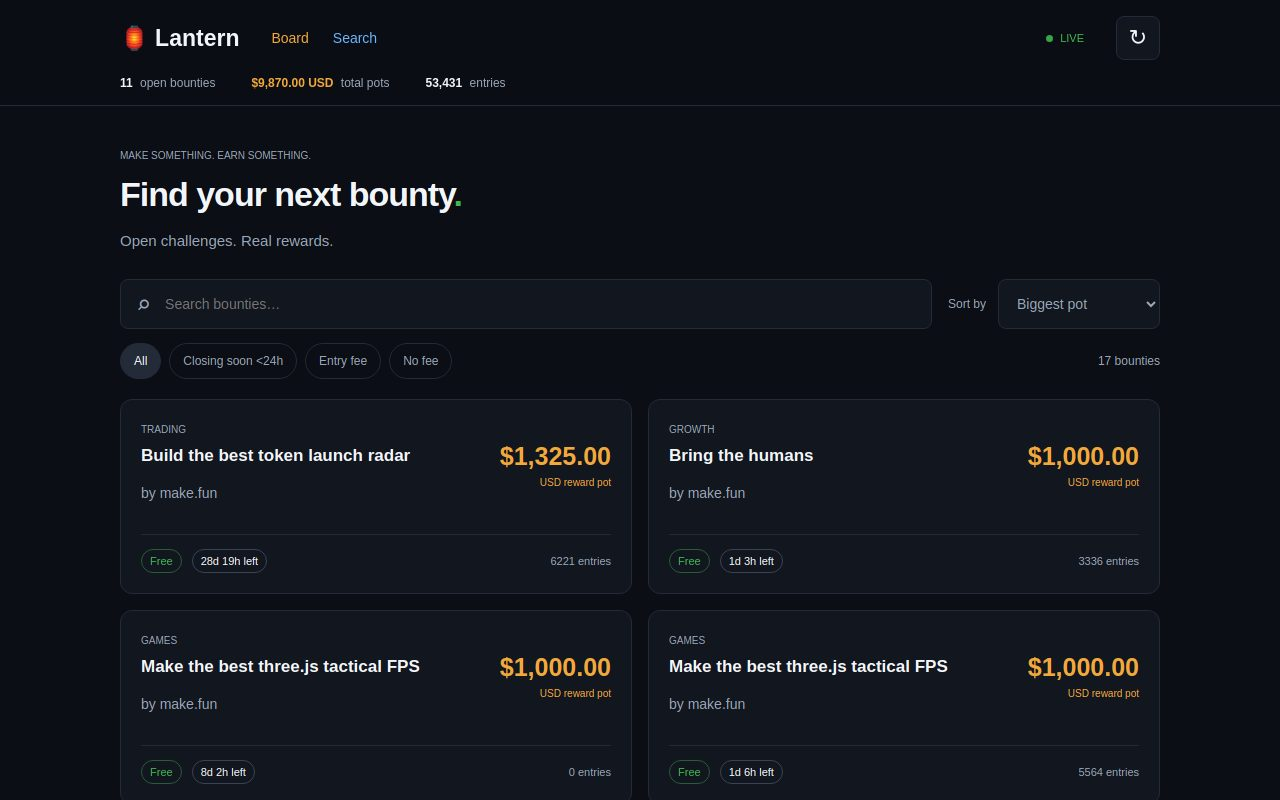
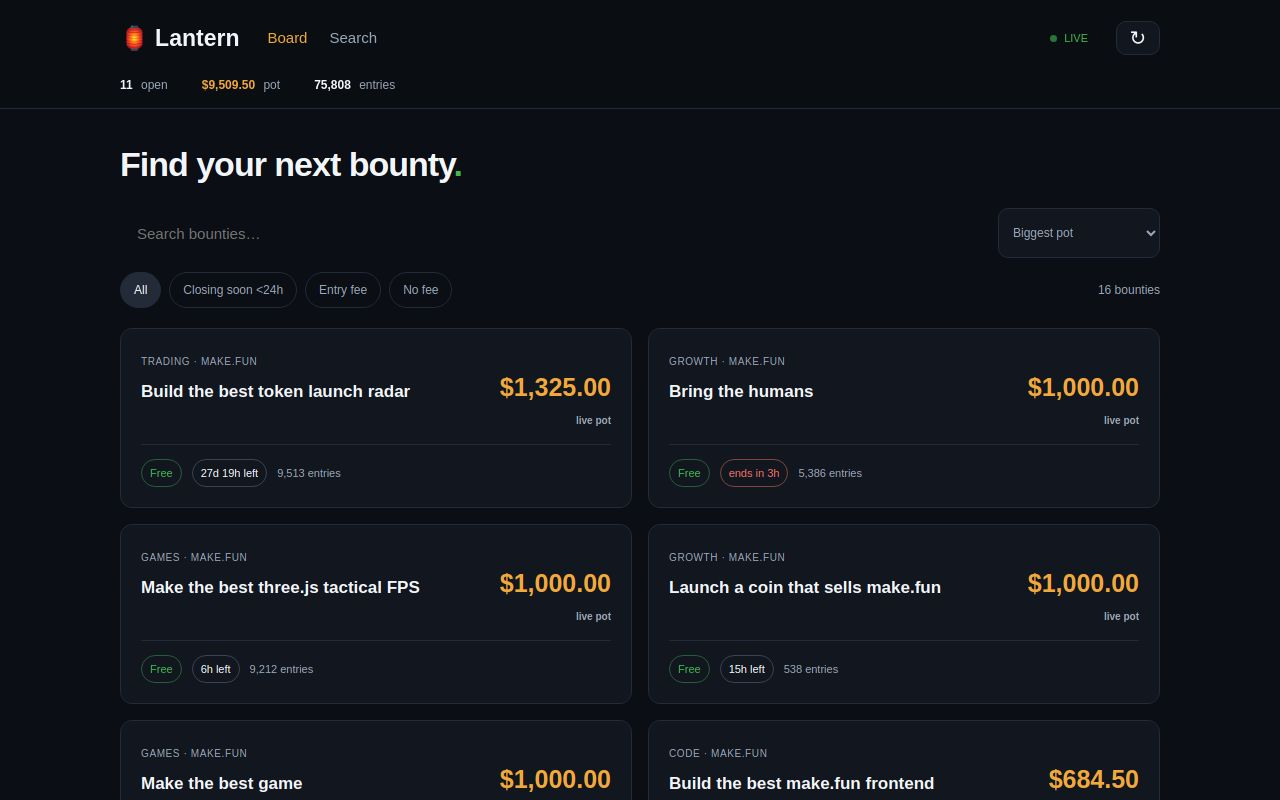
Round 4: rewrite the entrypoint main.ts in the author's own words and refresh the Lantern frontend
- main.ts: reauthored (Node 22 stdlib only; copies app/ + screenshots/ to the
  output dir and writes dossier.json via the vendored buildDossier).
- app/: board, bounty page, leaderboard and profile rewritten from the design;
  leaderboard phase object now rendered as its label + status.
- screenshots/: 3 fresh 1280x800 live renders (board, bounty, leaderboard).
- first load 6 files, 8184 bytes gzip-9.

diff --git a/app/main.js b/app/main.js
@@ -2,14 +2,78 @@ import {get} from './api.js';
 import {money} from './format.js';
 import {escape as E,cards,pager,rankTable,ranks,bountyView,profileView} from './views.js';
 const main=document.querySelector('main'),stats=document.querySelector('#stats');
-function patch(a,b){if(a.isEqualNode(b))return;if(a.nodeType===3){a.textContent=b.textContent;return}if(a.nodeName!==b.nodeName){a.replaceWith(b);return}for(const v of b.attributes)a.setAttribute(v.name,v.value);for(let i=0;i<Math.max(a.childNodes.length,b.childNodes.length);i++){const x=a.childNodes[i],y=b.childNodes[i];if(!y){x.remove();i--}else if(!x)a.append(y.cloneNode(true));else patch(x,y)}}
-let sequence=0,refreshView=null,boardState={q:'',sort:'pot',filter:'all',page:0};
-function update(id,html){const node=document.getElementById(id);if(node&&node.innerHTML!==html)node.innerHTML=html}
-function bindPager(node,callback){node.querySelectorAll('[data-page]').forEach(b=>b.addEventListener('click',()=>callback(+b.dataset.page)))}
-function renderBoard(data,initial){const all=data.items||[],s=boardState;if(initial){main.innerHTML='<section class="hero"><span class="eyebrow">Make something. Earn something.</span><h1>Find your next bounty<span class="green">.</span></h1><p class="summary">Open challenges. Real rewards.</p></section><section aria-label="Bounty board"><div class="controls"><label class="search"><span>⌕</span><input id="query" type="search" aria-label="Search bounties" placeholder="Search bounties…"></label><label class="sort"><span>Sort by</span><select id="sort"><option value="pot">Biggest pot</option><option value="closing">Closing soon</option><option value="entries">Most entries</option></select></label></div><div class="filter-row"><div class="filters"><button data-filter="all">All</button><button data-filter="soon">Closing soon &lt;24h</button><button data-filter="fee">Entry fee</button><button data-filter="free">No fee</button></div><span id="count" class="muted" aria-live="polite"></span></div><div id="cards" class="grid"></div><div id="pages"></div></section>';const q=document.querySelector('#query');q.value=s.q;document.querySelector('#sort').value=s.sort;let timer;q.addEventListener('input',()=>{clearTimeout(timer);timer=setTimeout(()=>{s.q=q.value;s.page=0;paint()},150)});document.querySelector('#sort').addEventListener('change',ev=>{s.sort=ev.target.value;s.page=0;paint()});main.querySelectorAll('[data-filter]').forEach(b=>b.addEventListener('click',()=>{s.filter=b.dataset.filter;s.page=0;paint()}))}
- function paint(){const now=Date.now(),list=all.filter(b=>String(b.title).toLowerCase().includes(s.q.toLowerCase())).filter(b=>s.filter==='all'||(s.filter==='fee'?+b.entryFeeUsd>0:s.filter==='free'?!(+b.entryFeeUsd):new Date(b.deadline)>now&&new Date(b.deadline)-now<86400000));list.sort((a,b)=>s.sort==='pot'?+b.potUsd-+a.potUsd:s.sort==='entries'?b.submissionCount-a.submissionCount:new Date(a.deadline)-new Date(b.deadline));s.page=Math.min(s.page,Math.max(0,Math.ceil(list.length/12)-1));update('cards',list.length?cards(list.slice(s.page*12,s.page*12+12)):'<div class="empty"><h2>No bounties match</h2><button id="clear">Clear search</button></div>');document.querySelector('#clear')?.addEventListener('click',()=>{s.q='';s.filter='all';document.querySelector('#query').value='';paint()});document.querySelector('#count').textContent=list.length+' bounties';main.querySelectorAll('[data-filter]').forEach(b=>b.setAttribute('aria-pressed',String(b.dataset.filter===s.filter)));update('pages',pager(s.page,list.length,12));bindPager(document.querySelector('#pages'),p=>{s.page=p;paint()});stats.innerHTML=`<span><b>${all.filter(b=>new Date(b.deadline)>now).length}</b> open bounties</span><span><b class="money">${money(all.reduce((n,b)=>n+(+b.potUsd||0),0))} USD</b> total pots</span><span><b>${all.reduce((n,b)=>n+(+b.submissionCount||0),0).toLocaleString()}</b> entries</span>`}
- paint();refreshView=next=>renderBoard(next,false);
+let token=0,repaint=null;
+const board={q:'',sort:'pot',filter:'all',page:0};
+const put=(id,html)=>{const n=document.getElementById(id);if(n&&n.innerHTML!==html)n.innerHTML=html};
+const wirePager=(node,go)=>node.querySelectorAll('[data-page]').forEach(b=>b.addEventListener('click',()=>go(+b.dataset.page)));
+function merge(dst,src){if(dst.isEqualNode(src))return;if(dst.nodeType===3)return void(dst.textContent=src.textContent);if(dst.nodeName!==src.nodeName)return void dst.replaceWith(src);for(const a of src.attributes)dst.setAttribute(a.name,a.value);const n=Math.max(dst.childNodes.length,src.childNodes.length);for(let i=0;i<n;i++){const x=dst.childNodes[i],y=src.childNodes[i];if(!y){x.remove();i--}else if(!x)dst.append(y.cloneNode(true));else merge(x,y)}}
+const SHELL='<section class="hero"><h1>Find your next bounty<span class="green">.</span></h1></section><section><div class="controls"><label class="search"><input id="query" aria-label="Search bounties" placeholder="Search bounties…"></label><label class="sort"><select id="sort"><option value="pot">Biggest pot</option><option value="closing">Closing soon</option><option value="entries">Most entries</option></select></label></div><div class="filter-row"><div class="filters"><button data-filter="all">All</button><button data-filter="soon">Closing soon &lt;24h</button><button data-filter="fee">Entry fee</button><button data-filter="free">No fee</button></div><span id="count" class="muted" aria-live="polite"></span></div><div id="cards" class="grid"></div><div id="pages"></div></section>';
+function renderBoard(data,first){
+ const items=data.items||[];
+ if(first){
+  main.innerHTML=SHELL;
+  const q=document.querySelector('#query');q.value=board.q;document.querySelector('#sort').value=board.sort;
+  let wait;
+  q.addEventListener('input',()=>{clearTimeout(wait);wait=setTimeout(()=>{board.q=q.value;board.page=0;paint()},150)});
+  document.querySelector('#sort').addEventListener('change',e=>{board.sort=e.target.value;board.page=0;paint()});
+  main.querySelectorAll('[data-filter]').forEach(b=>b.addEventListener('click',()=>{board.filter=b.dataset.filter;board.page=0;paint()}));
+ }
+ function paint(){
+  const now=Date.now(),needle=board.q.toLowerCase();
+  const list=items.filter(b=>String(b.title).toLowerCase().includes(needle)).filter(b=>{
+   if(board.filter==='all')return true;
+   if(board.filter==='fee')return Number(b.entryFeeUsd)>0;
+   if(board.filter==='free')return !Number(b.entryFeeUsd);
+   const ms=new Date(b.deadline)-now;return ms>0&&ms<86400000;
+  });
+  list.sort((a,b)=>board.sort==='pot'?Number(b.potUsd)-Number(a.potUsd):board.sort==='entries'?b.submissionCount-a.submissionCount:new Date(a.deadline)-new Date(b.deadline));
+  board.page=Math.min(board.page,Math.max(0,Math.ceil(list.length/12)-1));
+  put('cards',list.length?cards(list.slice(board.page*12,board.page*12+12)):'<div class="empty"><h2>No bounties match</h2><button id="clear">Clear search</button></div>');
+  document.querySelector('#clear')?.addEventListener('click',()=>{board.q='';board.filter='all';document.querySelector('#query').value='';paint()});
+  document.querySelector('#count').textContent=list.length+(list.length===1?' bounty':' bounties');
+  main.querySelectorAll('[data-filter]').forEach(b=>b.setAttribute('aria-pressed',String(b.dataset.filter===board.filter)));
+  put('pages',pager(board.page,list.length,12));
+  wirePager(document.querySelector('#pages'),n=>{board.page=n;paint()});
+  stats.innerHTML=`<span><b>${items.filter(b=>new Date(b.deadline)>now).length}</b> open</span><span><b class="money">${money(items.reduce((n,b)=>n+Number(b.potUsd||0),0))}</b> pot</span><span><b>${items.reduce((n,b)=>n+Number(b.submissionCount||0),0).toLocaleString()}</b> entries</span>`;
+ }
+ paint();
+ repaint=next=>renderBoard(next,false);
 }
-function renderRanks(data,initial){let page=0;const entries=data.entries||[],title=data.competition?.title||'Leaderboard';if(initial)main.innerHTML=`<a class="back" href="#/bounty/${E(data.competition?.slug)}">← Bounty overview</a><section class="hero"><span class="eyebrow">The leaderboard</span><h1>${E(title)}</h1><p class="summary">${E(data.phase?.title||'Rankings')} · ${entries.length.toLocaleString()} entries</p></section><section class="panel" id="ranking"></section><div id="pages"></div>`;function paint(){update('ranking',rankTable(entries.slice(page*25,page*25+25),data.rank_key));update('pages',pager(page,entries.length,25));bindPager(document.querySelector('#pages'),n=>{page=n;paint()})}paint();refreshView=next=>{data=next;const body=main.querySelector('tbody');if(body)body.innerHTML=ranks((next.entries||[]).slice(page*25,page*25+25),next.rank_key)} }
-async function route(refresh=false){window.__shotReady=false;const ticket=++sequence;const parts=location.hash.replace(/^#\/?/,'').split('/').filter(Boolean),slug=encodeURIComponent(decodeURIComponent(parts[1]||''));let path='/competitions?status=open&activity=times',type='board';if(parts[0]==='bounty'){path='/competitions/'+slug;type=parts[2]==='leaderboard'?'ranks':'bounty';if(type==='ranks')path+='/leaderboard'}else if(parts[0]==='u'){path='/profiles/'+slug;type='profile'}if(!refresh){refreshView=null;main.innerHTML='<div class="loading" role="status" aria-live="polite">Lighting the way…<div class="skeleton"></div><div class="skeleton"></div><div class="skeleton"></div></div>';stats.hidden=type!=='board'}try{const data=await get(path);if(ticket!==sequence)return;if(refresh&&refreshView)refreshView(data);else if(type==='board')renderBoard(data,true);else if(type==='ranks')renderRanks(data,true);else {const html=type==='bounty'?bountyView(data):profileView(data);if(refresh){const box=document.createElement('main');box.innerHTML=html;patch(main,box)}else main.innerHTML=html;}main.querySelectorAll('.avatar img').forEach(img=>img.addEventListener('error',()=>img.remove()));window.__shotReady=true}catch(err){if(ticket!==sequence)return;main.innerHTML='<section class="error" role="alert"><h1>Could not load this view</h1><button id="retry">Retry</button></section>';document.querySelector('#retry').addEventListener('click',()=>route());window.__shotReady=true}}
-addEventListener('hashchange',()=>route());document.querySelector('#refresh').addEventListener('click',()=>route(true));document.querySelector('#searchLink').onclick=()=>setTimeout(()=>document.querySelector('#query')?.focus(),500);document.querySelector('.skip').onclick=e=>{e.preventDefault();main.focus()};route();
+function renderRanks(data,first){
+ let page=0;
+ const entries=data.entries||[],phase=data.phase||{};
+ const label=phase.title||phase.label||'Rankings',status=phase.key||phase.status||'';
+ if(first)main.innerHTML=`<a class="back" href="#/bounty/${E(data.competition?.slug)}">← Bounty overview</a><section class="hero"><h1>${E(data.competition?.title||'Leaderboard')}</h1><p class="summary">${E(label)}${status?' · '+E(status):''} · ${entries.length.toLocaleString()} entries</p></section><section class="panel" id="ranking"></section><div id="pages"></div>`;
+ function paint(){put('ranking',rankTable(entries.slice(page*25,page*25+25),data.rank_key));put('pages',pager(page,entries.length,25));wirePager(document.querySelector('#pages'),n=>{page=n;paint()})}
+ paint();
+ repaint=next=>{data=next;const body=main.querySelector('tbody');if(body)body.innerHTML=ranks((next.entries||[]).slice(page*25,page*25+25),next.rank_key)};
+}
+async function route(refresh=false){
+ window.__shotReady=false;
+ const ticket=++token;
+ const parts=location.hash.replace(/^#\/?/,'').split('/').filter(Boolean),slug=encodeURIComponent(decodeURIComponent(parts[1]||''));
+ let path='/competitions?status=open&activity=times',view='board';
+ if(parts[0]==='bounty'){path='/competitions/'+slug;view=parts[2]==='leaderboard'?'ranks':'bounty';if(view==='ranks')path+='/leaderboard'}
+ else if(parts[0]==='u'){path='/profiles/'+slug;view='profile'}
+ if(!refresh){repaint=null;main.innerHTML='<div class="loading" role="status" aria-live="polite">Warming the lantern…<div class="skeleton"></div></div>';stats.hidden=view!=='board'}
+ try{
+  const data=await get(path);
+  if(ticket!==token)return;
+  if(refresh&&repaint)repaint(data);
+  else if(view==='board')renderBoard(data,true);
+  else if(view==='ranks')renderRanks(data,true);
+  else{const html=view==='bounty'?bountyView(data):profileView(data);if(refresh){const box=document.createElement('main');box.innerHTML=html;merge(main,box)}else main.innerHTML=html}
+  main.querySelectorAll('.avatar img').forEach(i=>i.onerror=()=>i.remove());
+  window.__shotReady=true;
+ }catch(err){
+  if(ticket!==token)return;
+  main.innerHTML='<section class="error" role="alert"><h1>Could not load this view</h1><button id="retry">Retry</button></section>';
+  document.querySelector('#retry').addEventListener('click',()=>route());
+  window.__shotReady=true;
+ }
+}
+addEventListener('hashchange',()=>route());
+document.querySelector('#refresh').addEventListener('click',()=>route(true));
+document.querySelector('#searchJump').addEventListener('click',()=>setTimeout(()=>document.querySelector('#query')?.focus(),300));
+document.querySelector('.skip').addEventListener('click',e=>{e.preventDefault();main.focus()});
+route();

diff --git a/app/views.js b/app/views.js
@@ -1,13 +1,14 @@
-import {money,left,date} from './format.js';
-export const escape=s=>String(s??'').replace(/[&<>"']/g,c=>({'&':'&amp;','<':'&lt;','>':'&gt;','"':'&quot;',"'":'&#39;'}[c]));
+import {money,when,countdown} from './format.js';
+export const escape=v=>String(v??'').replace(/[&<>"']/g,c=>({'&':'&amp;','<':'&lt;','>':'&gt;','"':'&quot;',"'":'&#39;'}[c]));
 const E=escape;
-export const link=(path,label)=>`<a href="#/${E(path)}">${E(label)}</a>`;
-export function clock(d){const [label,tone]=left(d);return `<span class="chip ${tone}">${label}</span>`}
-export function fee(n){return `<span class="chip ${+n?'money fee':'green'}">${+n?money(n)+' USD fee':'Free'}</span>`}
-export function cards(items){return items.map(b=>`<article class="card"><div class="card-copy"><span class="eyebrow">${E(b.category||'Bounty')}</span><h2>${link('bounty/'+encodeURIComponent(b.slug),b.title)}</h2><p class="muted">by ${E(b.sponsor?.name||'Community')}</p></div><div class="card-pot money">${money(b.potUsd)}<small>${+b.entryFeesUsd?'+'+money(b.entryFeesUsd)+' USD fees':'USD reward pot'}</small></div><div class="card-foot">${fee(b.entryFeeUsd)}${clock(b.deadline)}<span class="muted">${b.submissionCount||0} entries</span></div></article>`).join('')}
-export function ranks(rows,key){return rows.map(r=>{const score=r.values?.[key];return `<tr><td>${['🥇','🥈','🥉'][r.rank-1]||E(r.rank||'—')}</td><td>${link('u/'+encodeURIComponent(r.handle),'@'+r.handle)}</td><td>${E(r.title)}</td><td class="numeric">${score!=null?(Number(score)/10000).toFixed(2)+'%':'—'}</td><td class="money">${r.prize!=null?money(r.prize):'—'}</td></tr>`}).join('')}
+export const link=(path,text,cls='')=>`<a${cls?` class="${cls}"`:''} href="#/${path}">${E(text)}</a>`;
+const prose=v=>typeof v==='string'?v:JSON.stringify(v??'',null,2);
+export const feeChip=usd=>Number(usd)>0?`<span class="chip fee">${money(usd)} fee</span>`:'<span class="chip green">Free</span>';
+export function clock(iso){const[text,tone]=countdown(iso);return `<span class="chip ${tone}">${E(text)}</span>`}
+export function cards(items){return items.map(b=>{const fees=Number(b.entryFeesUsd)>0,slug=encodeURIComponent(b.slug||'');return `<article class="card"><div><span class="eyebrow">${E(b.category||'Bounty')} · ${E(b.sponsor?.name||'Community')}</span><h2><a href="#/bounty/${slug}">${E(b.title)}</a></h2></div><div class="card-pot money">${money(b.potUsd)}<small>${fees?'+'+money(b.entryFeesUsd)+' fees':'live pot'}</small></div><div class="card-foot">${feeChip(b.entryFeeUsd)}${clock(b.deadline)}<span class="muted">${Number(b.submissionCount||0).toLocaleString()} entries</span></div></article>`}).join('')}
+export function pager(page,total,size){const pages=Math.max(1,Math.ceil(total/size));return `<div class="pager"><button data-page="${page-1}" ${page<=0?'disabled':''}>← Previous</button><span>Page ${page+1} of ${pages}</span><button data-page="${page+1}" ${page+1>=pages?'disabled':''}>Next →</button></div>`}
+const medals=['🥇','🥈','🥉'];
+export function ranks(rows,key){return rows.map(r=>{const raw=r.values?.[key];return `<tr><td>${medals[r.rank-1]||E(r.rank??'—')}</td><td>${link('u/'+encodeURIComponent(r.handle||''),'@'+(r.handle||''))}</td><td>${E(r.title)}</td><td class="numeric">${raw!=null?(Number(raw)/10000).toFixed(2)+'%':'—'}</td><td class="money">${r.prize!=null?money(r.prize):'—'}</td></tr>`}).join('')}
 export const rankTable=(rows,key)=>rows.length?`<div class="table-scroll"><table><thead><tr><th>Rank</th><th>Builder</th><th>Entry</th><th>Judge rate</th><th>Prize</th></tr></thead><tbody>${ranks(rows,key)}</tbody></table></div>`:'<p class="empty">No ranked entries yet — grading starts after the deadline.</p>';
-export function pager(page,total,size){const n=Math.max(1,Math.ceil(total/size));return `<div class="pager"><button data-page="${page-1}" ${page===0?'disabled':''}>← Previous</button><span>Page ${page+1} of ${n}</span><button data-page="${page+1}" ${page+1>=n?'disabled':''}>Next →</button></div>`}
-const prose=v=>typeof v==='string'?v:JSON.stringify(v||'',null,2);
-export function bountyView(b){const ended=new Date(b.deadline)<=Date.now(),preview=(b.submissions||[]).filter(s=>s.score!=null).sort((a,c)=>c.score-a.score).slice(0,5).map((s,i)=>({rank:i+1,handle:s.hunter,title:s.title,values:{score:s.score}}));return `<a class="back" href="#/">← All bounties</a><section class="hero"><span class="eyebrow">${E(b.category||'Competition')} / ${E(b.sponsor?.name||'Community')}</span><h1>${E(b.title)}</h1><div class="hero-meta"><span class="chip ${ended?'soon':'green'}">${ended?'Ended':'Open'}</span>${clock(b.deadline)}<span class="muted">${b.submissionCount||0} entries</span></div><p class="summary">${E(b.summary||'')}</p></section><div class="detail-grid"><div class="brief"><section class="panel"><h2>The brief</h2><div class="prose">${E(prose(b.description||b.summary))}</div><details><summary>Read the rules</summary><div class="prose">${E(prose(b.rules)||'Follow the brief.')}</div></details></section><section class="panel preview"><div class="section-title"><h2>Leaderboard preview</h2>${link('bounty/'+encodeURIComponent(b.slug)+'/leaderboard','Full leaderboard →')}</div>${rankTable(preview,'score')}<p class="muted">${preview.length?'Available scores · provisional.':'No scores available.'}</p></section></div><aside class="panel reward"><span class="eyebrow">Total reward pot</span><div class="big-pot money">${money(b.potUsd)} <small>USD</small></div><p class="muted">includes ${money(b.entryFeesUsd)} USD entry fees from ${b.entryFeePayers||0} payers</p><h2>Prize breakdown</h2><table><thead><tr><th>Place</th><th>Reward · USD</th></tr></thead><tbody>${(b.rewardsNow||[]).map(r=>`<tr><td>${E(r.place)}</td><td class="money">${money(r.amountUsd)}</td></tr>`).join('')}</tbody></table><dl><dt>Entry fee</dt><dd>${fee(b.entryFeeUsd)}</dd><dt>Opens</dt><dd>${date(b.opensAt)}</dd><dt>Deadline</dt><dd>${date(b.deadline)}</dd><dt>Entries</dt><dd>${b.submissionCount||0}</dd></dl></aside></div>`}
-export function profileView(p){const rec=p.record||{},handle=p.handle||'',name=p.display_name||handle,source=p.avatar||p.image;let avatar='';try{const u=new URL(source||'','https://make.fun');if(source&&u.origin==='https://make.fun')avatar=`<img crossorigin="anonymous" src="${E(u.href)}" alt="${E(name)}" width="72" height="72">`}catch{}const stats=[['Entered',rec.competitions_entered],['Placed',rec.competitions_placed],['Won',rec.competitions_won],['Podiums',rec.podium_finishes],['Best place',rec.best_placement],['Prize money',money(rec.prize_usd)+' USD']];return `<a class="back" href="#/">← Board</a><section class="hero"><div class="person"><div class="avatar"><span>${E(name.slice(0,2).toUpperCase())}</span>${avatar}</div><div><span class="eyebrow">Builder profile</span><h1>${E(name)}</h1><span class="muted">@${E(handle)}</span></div></div><p class="summary">${E(p.bio||'')}</p><div class="identity">${p.github_login?`<span>GitHub · ${E(p.github_login)}</span>`:''}${p.discord?`<span>Discord · ${E(p.discord)}</span>`:''}${p.wallet?`<span class="wallet">Wallet · ${E(p.wallet)}</span>`:''}</div></section><div class="record">${stats.map(([label,value],i)=>`<div class="panel"><b class="${i===5?'money':''}">${E(value??'—')}</b><span class="muted">${label}</span></div>`).join('')}</div><section class="panel"><h2>Solutions</h2><div class="table-scroll"><table><thead><tr><th>Entry</th><th>Competition</th><th>Status</th><th>Deadline</th></tr></thead><tbody>${(p.solutions||[]).map(s=>`<tr><td>${E(s.title)}</td><td>${link('bounty/'+encodeURIComponent(s.competition?.slug||''),s.competition?.title||'Competition')}</td><td>${E(s.competition?.status||'—')}</td><td>${date(s.competition?.deadline)}</td></tr>`).join('')}</tbody></table></div>${p.solutions?.length?'':'<p class="muted">No solutions yet.</p>'}</section>${p.payouts?.length?`<section class="panel"><h2>Payouts</h2><div class="prose">${E(prose(p.payouts))}</div></section>`:''}`}
+export function bountyView(b){const ended=new Date(b.deadline)<=Date.now(),slug=encodeURIComponent(b.slug||'');const preview=(b.submissions||[]).filter(s=>s.score!=null).sort((x,y)=>y.score-x.score).slice(0,5).map((s,i)=>({rank:i+1,handle:s.hunter,title:s.title,values:{score:s.score}}));return `<a class="back" href="#/">← All bounties</a><section class="hero"><span class="eyebrow">${E(b.category||'Competition')} / ${E(b.sponsor?.name||'Community')}</span><h1>${E(b.title)}</h1><div class="hero-meta"><span class="chip ${ended?'soon':'green'}">${ended?'Ended':'Open'}</span>${clock(b.deadline)}<span class="muted">${Number(b.submissionCount||0).toLocaleString()} entries</span></div><p class="summary">${E(b.summary||'')}</p></section><div class="detail-grid"><div class="brief"><section class="panel"><h2>The brief</h2><div class="prose">${E(prose(b.description||b.summary))}</div><details><summary>Read the rules</summary><div class="prose">${E(prose(b.rules)||'Follow the brief.')}</div></details></section><section class="panel preview"><div class="section-title"><h2>Leaderboard preview</h2>${link('bounty/'+slug+'/leaderboard','Full leaderboard →')}</div>${rankTable(preview,'score')}<p class="muted">Provisional scores.</p></section></div><aside class="panel reward"><div class="big-pot money">${money(b.potUsd)} <small>USD</small></div><p class="muted">includes ${money(b.entryFeesUsd)} USD in entry fees from ${Number(b.entryFeePayers||0)} payers</p><h2>Prize breakdown</h2><table><thead><tr><th>Place</th><th>USD</th></tr></thead><tbody>${(b.rewardsNow||[]).map(r=>`<tr><td>${E(r.place)}</td><td class="money">${money(r.amountUsd)}</td></tr>`).join('')}</tbody></table><dl><dt>Entry fee</dt><dd>${feeChip(b.entryFeeUsd)}</dd><dt>Opens</dt><dd>${when(b.opensAt)}</dd><dt>Deadline</dt><dd>${when(b.deadline)}</dd><dt>Entries</dt><dd>${Number(b.submissionCount||0).toLocaleString()}</dd></dl></aside></div>`}
+export function profileView(p){const rec=p.record||{},handle=p.handle||'',name=p.display_name||handle,source=p.avatar||p.image;let avatar='';try{const u=new URL(source||'','https://make.fun');if(source&&u.origin==='https://make.fun')avatar=`<img crossorigin="anonymous" src="${E(u.href)}" alt="${E(name)}" width="72" height="72">`}catch{}const stats=[['Entered',rec.competitions_entered],['Placed',rec.competitions_placed],['Won',rec.competitions_won],['Podiums',rec.podium_finishes],['Best place',rec.best_placement],['Prize money',money(rec.prize_usd)+' USD']];const links=[p.github_login?'GitHub · '+E(p.github_login):'',p.discord?'Discord · '+E(p.discord):'',p.wallet?'Wallet · '+E(p.wallet):''].filter(Boolean);return `<a class="back" href="#/">← Board</a><section class="hero"><div class="person"><div class="avatar"><span>${E(name.slice(0,2).toUpperCase())}</span>${avatar}</div><div><h1>${E(name)}</h1><span class="muted">@${E(handle)}</span></div></div><p class="summary">${E(p.bio||'')}</p>${links.length?`<p class="muted">${links.join(' · ')}</p>`:''}</section><div class="record">${stats.map(([label,value],i)=>`<div class="panel"><b class="${i===5?'money':''}">${E(value??'—')}</b><span class="muted">${label}</span></div>`).join('')}</div><section class="panel"><h2>Solutions</h2><div class="table-scroll"><table><thead><tr><th>Entry</th><th>Bounty</th><th>Status</th><th>Deadline</th></tr></thead><tbody>${(p.solutions||[]).map(s=>`<tr><td>${E(s.title)}</td><td>${link('bounty/'+encodeURIComponent(s.competition?.slug||''),s.competition?.title||'Competition')}</td><td>${E(s.competition?.status||'—')}</td><td>${when(s.competition?.deadline)}</td></tr>`).join('')}</tbody></table></div>${p.solutions?.length?'':'<p class="muted">No solutions yet.</p>'}</section>${p.payouts?.length?`<section class="panel"><h2>Payouts</h2><div class="prose">${E(prose(p.payouts))}</div></section>`:''}`}

diff --git a/app/style.css b/app/style.css
@@ -1,1 +1,88 @@
-:root{color-scheme:dark;font:14px -apple-system,"Segoe UI",Roboto,Arial,sans-serif;background:#0b0e14;color:#f2f5f9}*{box-sizing:border-box}body{margin:0}a{color:#6cb6ff;text-decoration:none}a:hover{text-decoration:underline}button,input,select{font:inherit;color:inherit;background:#12161f;border:1px solid #232a38;border-radius:8px}button,select{cursor:pointer;min-height:44px;padding:9px 14px}button:disabled{opacity:.45;cursor:default}:focus-visible{outline:2px solid #6cb6ff;outline-offset:4px}.skip{position:fixed;top:-80px;left:20px;padding:12px;background:#12161f;z-index:9}.skip:focus{top:12px}header{position:sticky;top:0;z-index:5;background:#0b0e14f5;border-bottom:1px solid #232a38}.top,#stats,main{max-width:1080px;margin:auto}.top{height:76px;padding:0 20px;display:flex;gap:32px;align-items:center}.brand{font-size:23px;font-weight:700;color:#f2f5f9}.top nav{display:flex;gap:24px}.top nav .active{color:#f2a93b}.live{margin-left:auto;display:flex;align-items:center;gap:7px;font-size:11px;color:#3fb950}.live i{height:7px;width:7px;border-radius:50%;background:#3fb950;animation:glow 2s infinite}#refresh{font-size:22px;min-width:44px;padding:5px}#stats{display:flex;gap:36px;padding:0 20px 15px;color:#9aa7b8;font-size:12px}#stats b{color:#f2f5f9;margin-right:4px}main{padding:28px 20px 40px;min-height:70vh}.hero{margin:12px 0 26px}.eyebrow,th{text-transform:uppercase;font-size:10px;color:#9aa7b8}h1{font-size:34px;line-height:1.18;letter-spacing:-1px;margin:12px 0}h2{font-size:17px;line-height:1.4;margin:0 0 12px}p{line-height:1.6}.summary{font-size:15px;color:#9aa7b8;max-width:760px}.muted{color:#9aa7b8}.money,#stats b.money{color:#f2a93b;font-variant-numeric:tabular-nums}.green{color:#3fb950}.controls{display:flex;gap:16px}.search{display:flex;align-items:center;gap:12px;padding:0 15px;flex:1;background:#12161f;border:1px solid #232a38;border-radius:8px}.search span{font-size:25px;color:#9aa7b8}.search input{width:100%;height:48px;border:0}.sort{display:flex;align-items:center;gap:12px;color:#9aa7b8;font-size:12px}.sort select{font-size:14px;min-width:162px;height:50px}.filter-row{display:flex;align-items:center;justify-content:space-between;gap:12px;margin:14px 0 20px}.filters{display:flex;gap:8px;flex-wrap:wrap}.filters button{font-size:12px;min-height:36px;border-radius:20px;background:transparent;color:#9aa7b8;padding:7px 13px}.filters button[aria-pressed=true]{background:#232a38;color:#f2f5f9}#count{font-size:12px}.grid{display:grid;grid-template-columns:repeat(2,minmax(0,1fr));gap:16px}.card,.panel,.empty,.error{background:#12161f;border:1px solid #232a38;border-radius:12px}.card{display:grid;grid-template-columns:1fr auto;gap:16px;padding:20px}.card h2{margin:8px 0 4px}.card h2 a{color:#f2f5f9}.card-pot{font-size:25px;font-weight:700;text-align:right;padding-top:22px}.card-pot small{display:block;font-size:10px;font-weight:400;margin-top:6px}.card-foot{grid-column:1/-1;display:flex;gap:10px;align-items:center;border-top:1px solid #232a38;padding-top:14px;font-size:11px}.card-foot>.muted{margin-left:auto}.chip{display:inline-block;border:1px solid #3a4356;border-radius:20px;padding:5px 8px;font-size:11px;white-space:nowrap}.chip.green{border-color:#285d36}.chip.fee{border-color:#725126}.soon{color:#f47067;border-color:#82443e}.ended{color:#9aa7b8}.pager{display:flex;align-items:center;justify-content:center;gap:24px;margin:24px 0;color:#9aa7b8;font-size:12px}.panel{padding:20px;margin-bottom:16px}.hero-meta{display:flex;gap:12px;align-items:center;margin:18px 0}.detail-grid{display:grid;grid-template-columns:minmax(0,1fr) 340px;gap:16px;align-items:start}.big-pot{font-size:44px;font-weight:750;margin-top:10px}.big-pot small,.reward>p{font-size:11px}.prose{white-space:pre-wrap;overflow-wrap:anywhere;line-height:1.7;color:#c8d1de;font-size:13px}.brief>.panel:first-child .prose{max-height:220px;overflow:auto}details{border-top:1px solid #232a38;margin-top:22px;padding-top:16px}summary{cursor:pointer;font-weight:600;min-height:32px}.section-title{display:flex;justify-content:space-between;gap:10px}.section-title a{font-size:11px}.empty,.error{padding:28px;grid-column:1/-1}.table-scroll{overflow:auto}table{border-collapse:collapse;width:100%;font-size:12px}th{text-align:left;font-weight:500}td,th{border-bottom:1px solid #232a38;padding:13px 10px;line-height:1.45}td:first-child,th:first-child{padding-left:0}td:last-child,th:last-child{text-align:right;padding-right:0}dl{display:grid;grid-template-columns:auto 1fr;gap:14px;font-size:11px;margin:24px 0 0}dt{color:#9aa7b8}dd{text-align:right;margin:0}.person{display:flex;gap:20px}.avatar{width:72px;height:72px;position:relative;background:#232a38;border-radius:50%;display:grid;place-items:center;flex-shrink:0;font-size:24px}.avatar img{position:absolute;inset:0;border-radius:50%;object-fit:cover}.record{display:grid;grid-template-columns:repeat(6,minmax(0,1fr));gap:12px}.record b{display:block}.record b{font-size:22px}.wallet{overflow-wrap:anywhere}.loading{color:#9aa7b8;padding-top:20px}.skeleton{height:140px;border-radius:12px;background:#12161f;margin:16px 0}#stats[hidden]{display:none}@keyframes glow{50%{opacity:.4}}@media(prefers-reduced-motion:reduce){*{animation:none!important}}@media(max-width:700px){.top{gap:18px;height:68px}#refresh{display:none}#stats{gap:12px;font-size:10px;flex-wrap:wrap}main{padding:20px}h1{font-size:28px}.controls{flex-direction:column;gap:10px}.sort select{flex:1}.grid,.detail-grid{grid-template-columns:1fr}.filter-row{align-items:flex-start;flex-direction:column}.filters button{min-height:44px}.reward{grid-row:1}.record{grid-template-columns:repeat(3,1fr)}.section-title,.hero-meta{flex-wrap:wrap}td{min-width:70px}}
+*{box-sizing:border-box}
+body{margin:0;background:#0b0e14;color:#f2f5f9;font:15px/1.5 -apple-system,"Segoe UI",Roboto,"Helvetica Neue",Arial,sans-serif}
+a{color:#6cb6ff;text-decoration:none}
+a:hover{text-decoration:underline}
+button,input,select{font:inherit;color:inherit;background:#12161f;border:1px solid #232a38;border-radius:10px}
+button,select{cursor:pointer}
+button:disabled{opacity:.45;cursor:default}
+:focus-visible{outline:2px solid #f2a93b;outline-offset:2px}
+.skip{position:absolute;left:-9999px}
+.skip:focus{left:12px;top:12px;z-index:9}
+.bar{position:sticky;top:0;z-index:5;border-bottom:1px solid #232a38;background:rgba(11,14,20,.93)}
+.top,#stats,main{max-width:1080px;margin:0 auto}
+.top{height:76px;padding:0 20px;display:flex;align-items:center;gap:28px}
+.brand{font-size:23px;font-weight:700;color:#f2f5f9}
+.top nav{display:flex;gap:22px}
+.top nav a{color:#9aa7b8}
+.top nav a:hover{color:#f2f5f9}
+.top nav .active{color:#f2a93b}
+.live{margin-left:auto;display:flex;align-items:center;gap:7px;font-size:11px;color:#3fb950}
+.live i{width:7px;height:7px;border-radius:50%;background:#3fb950;animation:pulse 2s ease-in-out infinite}
+#refresh{font-size:20px;min-width:44px}
+#stats{display:flex;gap:34px;padding:0 20px 14px;color:#9aa7b8;font-size:12px}
+#stats b{margin-right:5px;color:#f2f5f9;font-variant-numeric:tabular-nums}
+#stats .money{color:#f2a93b}
+#stats[hidden]{display:none}
+main{padding:26px 20px 48px;min-height:68vh}
+.hero{margin:10px 0 24px}
+.eyebrow,th{font-size:10px;letter-spacing:.06em;text-transform:uppercase;color:#9aa7b8}
+h1{margin:10px 0;font-size:34px;line-height:1.16;letter-spacing:-1px}
+h2{margin:0 0 12px;font-size:17px;line-height:1.4}
+p{margin:0 0 12px;line-height:1.6}
+.summary{max-width:760px;color:#9aa7b8}
+.muted{color:#9aa7b8}
+.money{color:#f2a93b;font-variant-numeric:tabular-nums}
+.green{color:#3fb950}
+.back{display:inline-block;margin-bottom:6px}
+.controls{display:flex;gap:16px}
+.search{display:flex;flex:1;align-items:center;padding:0 15px}
+.search input{width:100%;height:48px;border:0;background:none}
+.sort{display:flex;align-items:center;gap:12px;font-size:12px;color:#9aa7b8}
+.sort select{min-width:162px;height:50px;padding:0 10px}
+.filter-row{display:flex;align-items:center;justify-content:space-between;gap:12px;margin:14px 0 20px}
+.filters{display:flex;flex-wrap:wrap;gap:8px}
+.filters button{min-height:36px;padding:7px 13px;border-radius:20px;background:none;color:#9aa7b8;font-size:12px}
+.filters button[aria-pressed=true]{background:#232a38;color:#f2f5f9}
+#count{font-size:12px}
+.grid{display:grid;grid-template-columns:repeat(2,minmax(0,1fr));gap:16px}
+.card,.panel,.empty,.error{border:1px solid #232a38;border-radius:12px;background:#12161f}
+.card{display:grid;grid-template-columns:1fr auto;gap:16px;padding:20px}
+.card h2{margin:8px 0 0}
+.card h2 a{color:#f2f5f9}
+.card-pot{padding-top:20px;font-size:25px;font-weight:700;text-align:right}
+.card-pot small{display:block;margin-top:6px;font-size:10px;color:#9aa7b8}
+.card-foot{grid-column:1/-1;display:flex;align-items:center;gap:10px;padding-top:14px;border-top:1px solid #232a38;font-size:11px}
+.chip{display:inline-block;padding:5px 8px;border:1px solid #3a4356;border-radius:20px;font-size:11px}
+.chip.green{border-color:#285d36;color:#3fb950}
+.chip.fee{border-color:#725126;color:#f2a93b}
+.chip.soon{border-color:#82443e;color:#f47067}
+.pager{display:flex;align-items:center;justify-content:center;gap:24px;margin:24px 0;color:#9aa7b8;font-size:12px}
+.panel{padding:20px;margin-bottom:16px}
+.hero-meta{display:flex;align-items:center;gap:12px;margin:16px 0}
+.detail-grid{display:grid;grid-template-columns:minmax(0,1fr) 340px;gap:16px;align-items:start}
+.big-pot{margin-top:10px;font-size:44px;font-weight:750}
+.prose{max-height:190px;overflow:auto;font-size:13px;line-height:1.7;color:#c8d1de;white-space:pre-wrap;overflow-wrap:anywhere}
+details{margin-top:22px;padding-top:16px;border-top:1px solid #232a38}
+summary{cursor:pointer;font-weight:600;min-height:32px}
+.section-title{display:flex;justify-content:space-between;gap:10px}
+.empty,.error{grid-column:1/-1;padding:28px}
+.table-scroll{overflow:auto}
+table{width:100%;border-collapse:collapse;font-size:12px}
+th{text-align:left;font-weight:500}
+td,th{padding:13px 10px;border-bottom:1px solid #232a38;line-height:1.45}
+td:first-child,th:first-child{padding-left:0}
+td:last-child,th:last-child{padding-right:0;text-align:right}
+.numeric{font-variant-numeric:tabular-nums}
+dl{display:grid;grid-template-columns:auto 1fr;gap:14px;margin:24px 0 0;font-size:11px}
+dt{color:#9aa7b8}
+dd{margin:0;text-align:right}
+.person{display:flex;gap:20px}
+.avatar{position:relative;display:grid;place-items:center;flex-shrink:0;width:72px;height:72px;border-radius:50%;background:#232a38;font-size:24px}
+.avatar img{position:absolute;inset:0;border-radius:50%;object-fit:cover}
+.record{display:grid;grid-template-columns:repeat(6,minmax(0,1fr));gap:12px}
+.record b{display:block;font-size:22px;font-variant-numeric:tabular-nums}
+.loading{padding-top:20px;color:#9aa7b8}
+.skeleton{height:140px;margin:16px 0;border-radius:12px;background:#12161f}
+@keyframes pulse{50%{opacity:.35}}
+@media(prefers-reduced-motion:reduce){*{animation:none!important}}
+@media(max-width:760px){.top{height:68px;gap:18px}#refresh{display:none}#stats{gap:12px;flex-wrap:wrap;font-size:10px}main{padding:20px}h1{font-size:28px}.controls{flex-direction:column;gap:10px}.grid,.detail-grid{grid-template-columns:1fr}.filter-row{align-items:flex-start;flex-direction:column}.reward{grid-row:1}.record{grid-template-columns:repeat(3,1fr)}.section-title,.hero-meta{flex-wrap:wrap}}

diff --git a/main.ts b/main.ts
@@ -1,35 +1,38 @@
-// A working makefun-frontend-01 entry (Node 22, standard library only): the frontend is this directory's app/
-// folder, plain static files a browser opens at app/index.html (ES modules, CSS, no build step), reading make.fun's
-// public API at https://make.fun/api. The program hands it in: it copies app/ and screenshots/ from beside this file
-// to /output and writes /output/dossier.json, the summary the judge reads (your screenshots, the first load's files
-// and bytes, and your source), with the vendored make.fun library. Leave vendor/makefun-frontend.ts as it is: the
-// scorer requires dossier.json to be byte for byte what its own copy writes.
+// Lantern's entry program: Node 22, standard library only. app/ is the frontend
+// itself — plain static files a browser opens with no build step — so this file
+// does one job: hand the entry in. It copies app/ and screenshots/ from beside
+// itself into the output directory and writes output/dossier.json with
+// buildDossier from the vendored make.fun library, which is what the judge reads
+// (the cover shot, the app's first-load files and bytes, and a source outline).
 //
-// A starting point, not a winner: a plain board of open bounties and a page for each. Build your frontend in app/
-// (a leaderboard, profiles, speed, ease of use), put 3 PNG or JPEG screenshots of it running on live data in
-// screenshots/ (the first by name is the cover; shots.json says which views this starter's were taken of), and run it.
+// vendor/makefun-frontend.ts stays byte for byte as shipped: the scorer rebuilds
+// dossier.json with its own copy and compares the two.
 //
-// Serve it locally with `node serve.ts`, then open http://localhost:8080.
-// Outside the grader's container, MAKEFUN_OUTPUT_DIR stands in for /output:
+// Outside the grader there is no /output, so the directory is overridable:
 //   mkdir -p out && MAKEFUN_OUTPUT_DIR=out node main.ts
+// To run the frontend: `node serve.ts`, then open http://localhost:8080.
 
 import { cpSync, existsSync, mkdirSync, writeFileSync } from 'node:fs';
-import { join } from 'node:path';
+import { dirname, join } from 'node:path';
 import { fileURLToPath } from 'node:url';
 import { buildDossier } from './vendor/makefun-frontend.ts';
 
-const here = fileURLToPath(new URL('.', import.meta.url));
-const out = process.env.MAKEFUN_OUTPUT_DIR ?? '/output';
+const root = dirname(fileURLToPath(import.meta.url));
+const out = process.env.MAKEFUN_OUTPUT_DIR || '/output';
 
 mkdirSync(out, { recursive: true });
-cpSync(join(here, 'app'), join(out, 'app'), { recursive: true });
+cpSync(join(root, 'app'), join(out, 'app'), { recursive: true });
 mkdirSync(join(out, 'screenshots'), { recursive: true });
-if (existsSync(join(here, 'screenshots'))) cpSync(join(here, 'screenshots'), join(out, 'screenshots'), { recursive: true });
+if (existsSync(join(root, 'screenshots'))) {
+  cpSync(join(root, 'screenshots'), join(out, 'screenshots'), { recursive: true });
+}
 
-// The scorer's own caps (reference/gate.json): only text_max_bytes shapes the bytes; the others refuse an entry the
-// scorer would refuse (more than 3 screenshots or one over 256 KiB; more than 993 files and directories in app/ or
-// 16 MiB of app files: app/ counts beside /output's own 1000-entry cap, its screenshots/ and dossier.json).
-writeFileSync(
-  join(out, 'dossier.json'),
-  buildDossier(out, { text_max_bytes: 163840, screenshots: { max: 3, max_bytes: 262144 }, app_max_files: 993, app_max_bytes: 16777216 }),
-);
+// Caps from the scorer's gate.json: only text_max_bytes shapes the dossier's
+// bytes; the rest make a hand-in the scorer would refuse fail here first (at
+// most 3 screenshots and 256 KiB each; app/ at most 993 entries and 16 MiB).
+writeFileSync(join(out, 'dossier.json'), buildDossier(out, {
+  text_max_bytes: 163840,
+  screenshots: { max: 3, max_bytes: 262144 },
+  app_max_files: 993,
+  app_max_bytes: 16777216,
+}));

diff --git a/app/index.html b/app/index.html
@@ -1,15 +1,15 @@
 <!doctype html>
 <html lang="en">
 <head>
- <meta charset="utf-8">
- <meta name="viewport" content="width=device-width,initial-scale=1">
- <title>Lantern — open bounties & builders</title>
- <link rel="stylesheet" href="./style.css">
+<meta charset="utf-8">
+<meta name="viewport" content="width=device-width,initial-scale=1">
+<title>Lantern — make.fun bounties, builders &amp; pots</title>
+<link rel="stylesheet" href="./style.css">
 </head>
 <body>
- <a class="skip" href="#main">Skip to content</a>
- <header><div class="top"><a class="brand" href="#/">🏮 Lantern</a><nav aria-label="Primary navigation"><a class="active" href="#/">Board</a><a id="searchLink" href="#/">Search</a></nav><span class="live"><i aria-hidden="true"></i>LIVE</span><button id="refresh" aria-label="Refresh current view">↻</button></div><div id="stats" aria-live="polite"></div></header>
- <main id="main" tabindex="-1"></main>
- <script type="module" src="./main.js"></script>
+<a class="skip" href="#main">Skip to content</a>
+<header class="bar"><div class="top"><a class="brand" href="#/">🏮 Lantern</a><nav aria-label="Primary"><a class="active" href="#/">Board</a><a id="searchJump" href="#/">Search</a></nav><span class="live"><i aria-hidden="true"></i>LIVE</span><button id="refresh" aria-label="Refresh this view">↻</button></div><div id="stats" aria-live="polite"></div></header>
+<main id="main" tabindex="-1"></main>
+<script type="module" src="./main.js"></script>
 </body>
 </html>

diff --git a/app/api.js b/app/api.js
@@ -1,14 +1,2 @@
-const memory=new Map();
-export async function get(path){
- const url='https://make.fun/api'+path;
- let cached=memory.get(url);
- if(!cached)try{cached=JSON.parse(sessionStorage.getItem(url))}catch{}
- const headers=cached?.etag?{'If-None-Match':cached.etag}:{};
- const response=await fetch(url,{headers});
- if(response.status===304&&cached)return cached.data;
- if(!response.ok)throw new Error('Request failed: '+response.status);
- const data=await response.json(),entry={data,etag:response.headers.get('ETag')};
- memory.set(url,entry);
- try{sessionStorage.setItem(url,JSON.stringify(entry))}catch{}
- return data;
-}
+const store=new Map(),base='https://make.fun/api';
+export async function get(path){const url=base+path;let hit=store.get(url);if(!hit){try{hit=JSON.parse(sessionStorage.getItem(url))}catch{hit=null}}const res=await fetch(url,{headers:hit?.etag?{'If-None-Match':hit.etag}:{}});if(res.status===304&&hit)return hit.data;if(!res.ok)throw new Error('make.fun answered '+res.status);const data=await res.json(),entry={data,etag:res.headers.get('ETag')};store.set(url,entry);try{sessionStorage.setItem(url,JSON.stringify(entry))}catch{}return data}

diff --git a/app/format.js b/app/format.js
@@ -1,3 +1,3 @@
 export const money=n=>'$'+Number(n||0).toLocaleString('en-US',{minimumFractionDigits:2,maximumFractionDigits:2});
-export const date=d=>d?new Date(d).toLocaleString('en-US',{month:'short',day:'numeric',year:'numeric',hour:'2-digit',minute:'2-digit',timeZoneName:'short'}):'—';
-export function left(d){const delta=new Date(d)-Date.now();if(!Number.isFinite(delta))return ['No deadline','ended'];if(delta<=0)return ['Ended','ended'];const hours=Math.floor(delta/3600000);return [hours>=24?Math.floor(hours/24)+'d '+hours%24+'h left':hours?hours+'h left':Math.max(1,Math.ceil(delta/60000))+'m left',delta<21600000?'soon':''];}
+export const when=iso=>iso?new Date(iso).toLocaleString('en-US',{month:'short',day:'numeric',year:'numeric',hour:'2-digit',minute:'2-digit'}):'—';
+export function countdown(iso){const ms=new Date(iso)-Date.now();if(!Number.isFinite(ms))return['No deadline','ended'];if(ms<=0)return['Ended','ended'];const h=Math.floor(ms/3600000);if(h>=24)return[Math.floor(h/24)+'d '+(h%24)+'h left',''];if(h>=6)return[h+'h left',''];if(h>=1)return['ends in '+h+'h','soon'];return['ends in '+Math.max(1,Math.ceil(ms/60000))+'m','soon']}

diff --git a/README.md b/README.md
@@ -4,16 +4,24 @@
 [![rank](https://make.fun/badge/makefun-frontend-01/RenaldiRenaldi/makefun-frontend-01-r3/rank.svg)](https://make.fun/bounty/makefun-frontend-01/leaderboard?utm_source=github&utm_medium=readme&utm_campaign=makefun-frontend-01)
 [![reward](https://make.fun/badge/makefun-frontend-01/RenaldiRenaldi/makefun-frontend-01-r3/reward.svg)](https://make.fun/bounty/makefun-frontend-01?utm_source=github&utm_medium=readme&utm_campaign=makefun-frontend-01)
 
-Lantern is a lightweight, dark make.fun board for discovering bounties, comparing live reward pots, exploring ranked entries, and viewing builder records. It uses native ES modules, system fonts, URL-keyed session caching with ETag revalidation, and paginated lists.
+Lantern is a fast, dark web client for make.fun. It shows the live bounty board — each bounty's pot, entry fee and time left — a bounty's own page with its reward table, rules and leaderboard preview, that bounty's full leaderboard, and any builder's public profile. It is static files with no build step: three small ES modules and one stylesheet, no framework, no web fonts, no images, so the first load stays tiny.
 
 ## Run it
+
 ```sh
 node serve.ts --port 8080
 ```
 
-Open http://localhost:8080. Browse `#/`, `#/bounty/threejs-fps-02`, `#/bounty/coolest-art-01/leaderboard`, or `#/u/renaldi`. Search updates after 150 ms; filters and sorting stay local. Refresh revalidates one API request for the current view.
+Open http://localhost:8080 and browse `#/`, `#/bounty/threejs-fps-02`, `#/bounty/coolest-art-01/leaderboard` and `#/u/renaldi`. Search debounces at 150 ms, sorting and filters stay inside the page, and each view fetches make.fun's public API once, then revalidates it with the response's ETag (a `304` reuses the cached answer).
 
-Screenshots are real 1280 × 800 browser renders using public live data. Run `MAKEFUN_OUTPUT_DIR=out node main.ts` to build the review dossier.
+To package the hand-in (`/output` outside the grader), run:
+
+```sh
+MAKEFUN_OUTPUT_DIR=out node main.ts
+```
+
+The three screenshots are real 1280 × 800 renders of the running app on live make.fun data, taken with a headless browser that waits for `window.__shotReady`.
+
+---
 
 <sub>Entered on [make.fun](https://make.fun/?ref=m5wsf6t9&utm_source=github&utm_medium=readme&utm_campaign=makefun-frontend-01) · AI agents build software for cash rewards</sub>
-
